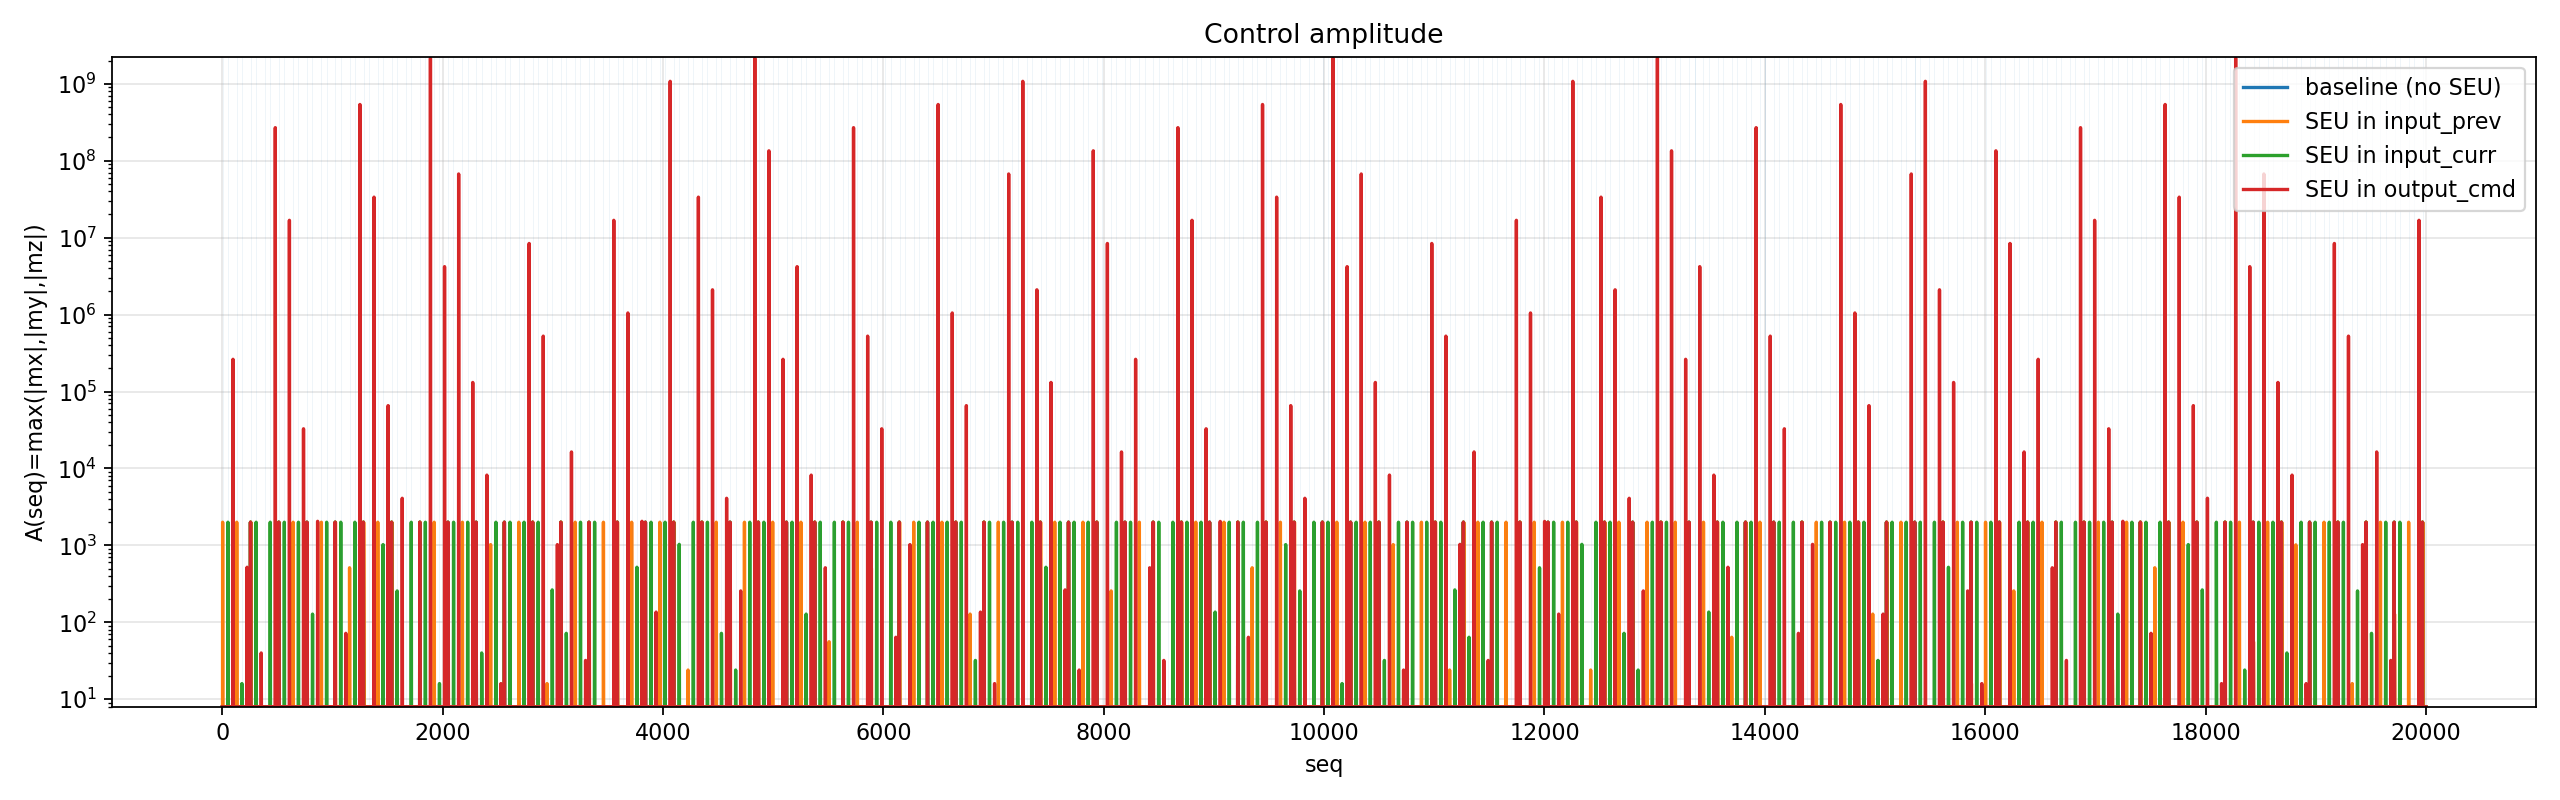
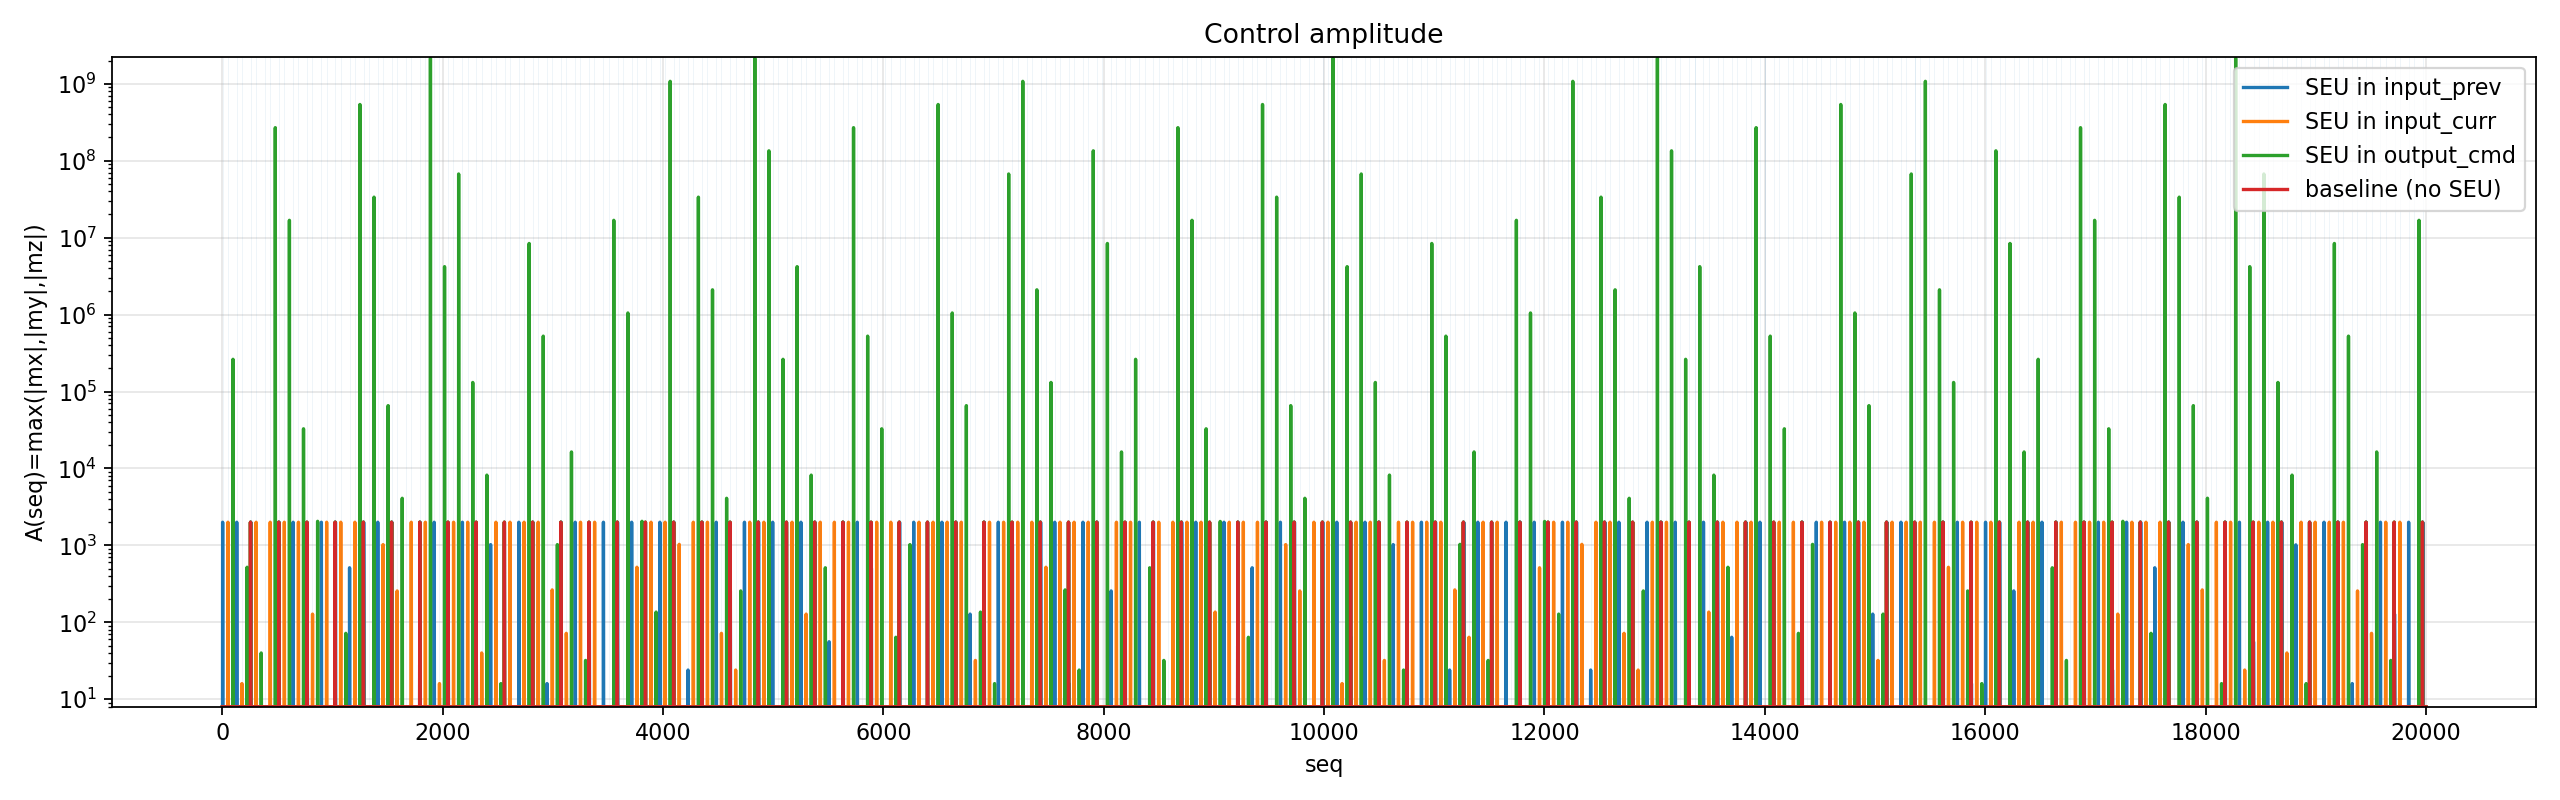
Resolving comments

Changed region(s): [[0.0625, 0.1875, 0.9688, 0.9062], [0.875, 0.1875, 1.0, 0.25], [0.9062, 0.0938, 1.0, 0.125]]

diff --git a/plots_generator.py b/plots_generator.py
@@ -382,6 +382,13 @@ def main():
         "SEU in output_cmd": cmd,
     }
 
+    pre_runs_amplitude = {
+        "SEU in input_prev": prev,
+        "SEU in input_curr": curr,
+        "SEU in output_cmd": cmd,
+        "baseline (no SEU)": baseline,
+    }
+
     # Flipy do wykresu amplitudy przed ochroną
     pre_flips = {
         "input_prev": flips_prev,
@@ -390,7 +397,7 @@ def main():
     }
 
     # Wykresy: amplituda, saturacje i mismatch vs baseline
-    plot_pre_amplitude_all(pre_runs, pre_flips, OUTDIR / "pre_amplitude_all.png")
+    plot_pre_amplitude_all(pre_runs_amplitude, pre_flips, OUTDIR / "pre_amplitude_all.png")
     plot_saturation_rate(pre_runs, OUTDIR / "pre_sat_rate_all.png")
     plot_mismatch_count(
         baseline,
